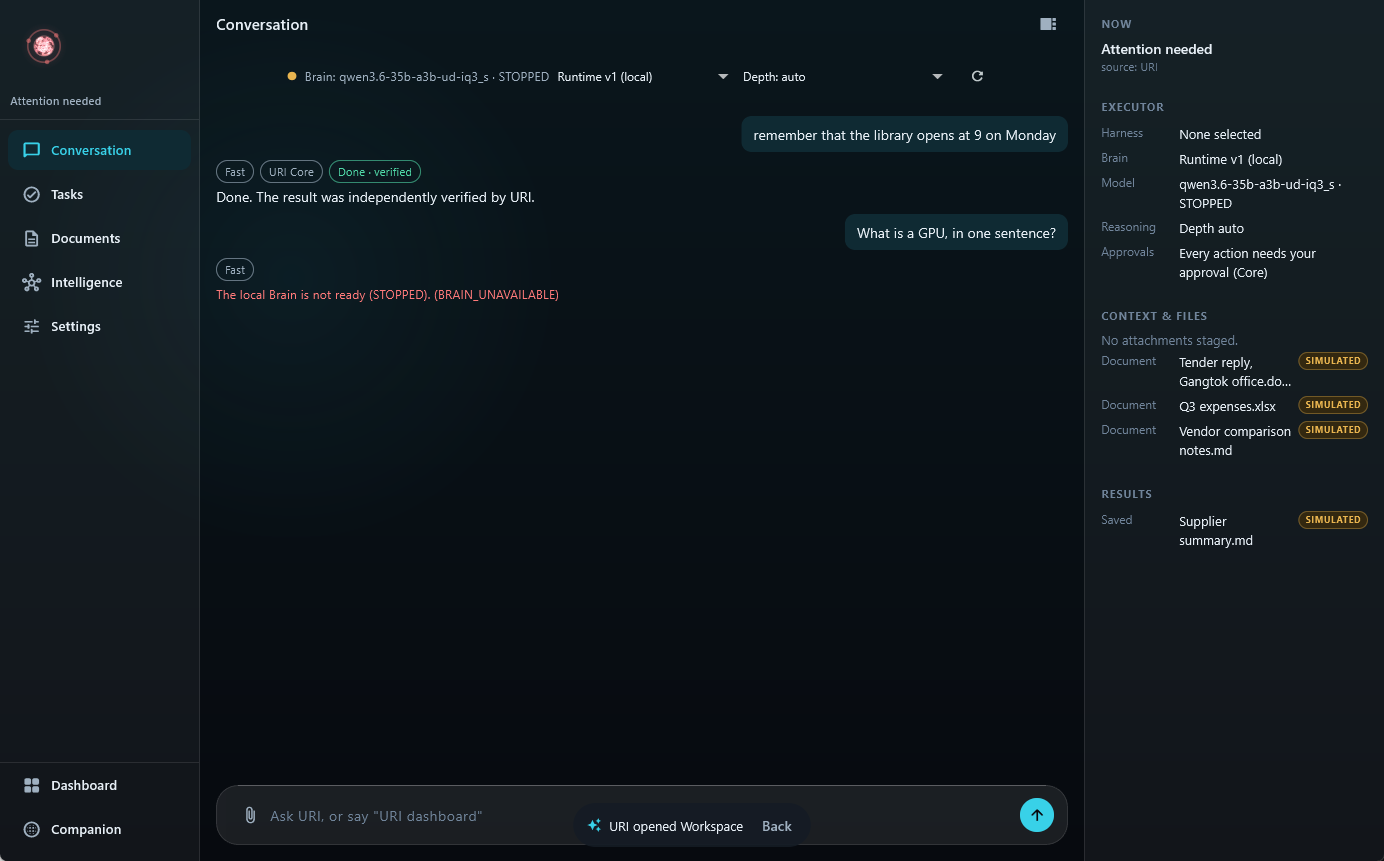
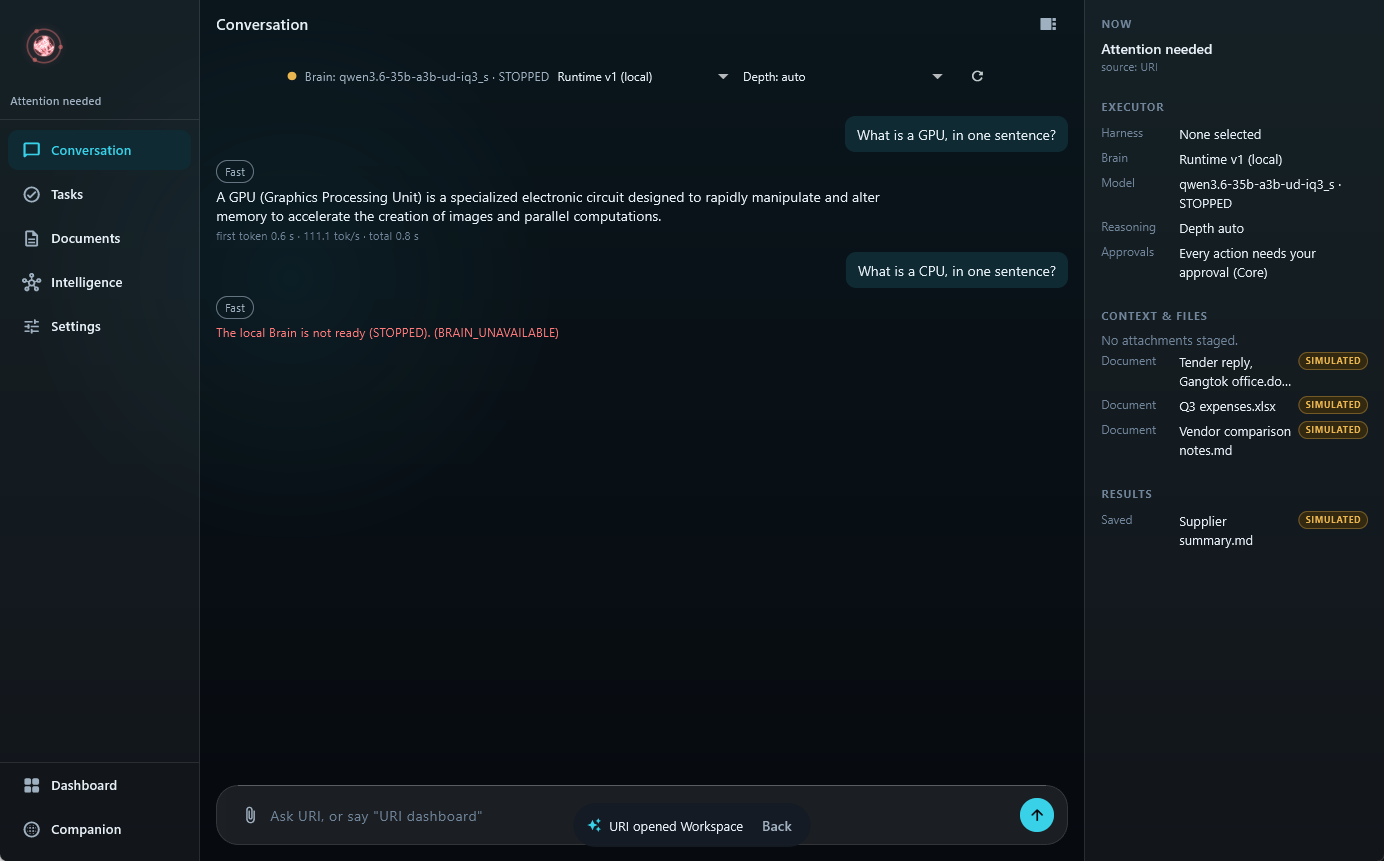
fix(ws): repair Codex WS round 5 findings (report boundaries, capture provenance, live-test assertions)
- Reports name the evidence surface per journey (worker / UI-widget / app) and the exact review
  (fcfed5c) and chain (abe2f9b) commits; post-chain changes listed, incl. the launcher default.
- capture_ws.ps1 -Attach requires -AttachPid, verifies the executable and records provenance;
  restart screenshots 07a/07/08 retaken from one verified process (60 s VRAM wait: 117 tok/s).
- ws_ui_live_test asserts Stop is pressed mid-stream, and asserts the refusal code and unchanged
  memory; rerun with Runtime v1 READY passed.

Changed region(s): [[0.1553, 0.1812, 0.7767, 0.3926], [0.5282, 0.1208, 0.7767, 0.1812], [0.0, 0.0302, 0.0621, 0.0604]]

diff --git a/uri_ui/test/ws_live/ws_ui_live_test.dart b/uri_ui/test/ws_live/ws_ui_live_test.dart
@@ -112,6 +112,8 @@ void main() {
           'route': conv.messages.last.route,
           'stop_buttons': find.byKey(const ValueKey('oi-cancel')).evaluate().length,
         };
+        expect(conv.busy, isTrue, reason: 'Stop must be pressed while the turn is still streaming');
+        expect(conv.messages.last.finishedStatus, isNull);
         await t.tap(find.byKey(const ValueKey('oi-cancel')));
         await t.pump();
         await until(t, () => !conv.busy, what: 'cancel');
@@ -167,9 +169,17 @@ void main() {
       // 6. Refusal: a destructive request with no qualified capability never reaches an approval card.
       await say(t, 'delete every file on my D drive right now');
       await until(t, () => !conv.busy && conv.messages.last.finishedStatus != null, what: 'refusal');
+      // In this UI session Core may first ask about the intent denied just before (INTENT_CONFIRMED_NOT_EXECUTED);
+      // a fresh session gets REFUSED_UNSUPPORTED (worker-level journey). Either way: no card, nothing executed.
       expect(conv.pendingApproval, isNull);
       expect(conv.messages.last.finishedStatus, isNot('ok'));
-      record('refusal', conv);
+      expect(conv.messages.last.coreCode, anyOf('REFUSED_UNSUPPORTED', 'INTENT_CONFIRMED_NOT_EXECUTED'));
+      final afterRefusal = (await t.runAsync(() async {
+        await conv.refreshMemory();
+        return List<String>.from(conv.memory);
+      }))!;
+      expect(afterRefusal, afterDeny);
+      record('refusal_no_execution', conv);
 
       // 7. Deterministic command with no model: presentation command is local.
       await say(t, 'URI dashboard');

diff --git a/docs/working_system/WS_STATUS_REPORT.md b/docs/working_system/WS_STATUS_REPORT.md
@@ -7,19 +7,32 @@ ids, hashes and receipts in `WS_INTEGRATION_RECEIPT.md`.
 **Verdict.** URI runs as one coordinated application on this PC, in the materialized development runtime. The real
 Flutter Living Companion drives the real integrated worker. That worker reaches real Core (Intent Discovery,
 approval, signed ticket, client execution, independent verification) and real Runtime v1, which is the default Brain.
-Every journey in the mandate was demonstrated live: from the real Flutter UI (automated widget-level driving of the
-real app tree and the built Windows app) and from the real worker:
-- normal response;
-- reasoning;
-- supervised action (approve and deny);
-- refusal;
-- cancellation;
-- restart (worker and Brain);
-- unavailable runtime.
-
-The candidate passed the accepted regression chain and was accepted with findings by the independent Codex review.
 It is **not production**: there is no cutover, the live PC still runs the legacy `\URIServer`, and no shortcut was
 changed. Remaining gaps are listed in §4.
+
+**Evidence boundaries.** Each claim below names the surface it was shown on.
+- **Worker** means a scripted driver of the real integrated worker (`tests/ws/test_ws_worker_live.py`).
+- **UI-widget** means the real Living widgets, driven in the Flutter test harness against the real worker
+  (`uri_ui/test/ws_live`).
+- **App** means the built Windows executable, driven by keyboard and mouse and captured
+  (`tools/capture_ws.ps1`, screenshots).
+
+The independent Codex review accepted the code at `fcfed5c` (round 4). Round 5 reviewed the later diff and the
+reports: candidate ACCEPT WITH FINDINGS; its report findings are repaired in this version. The combined regression
+chain and the live runtime used the tree materialized from `abe2f9b`. Changes made after `abe2f9b` are listed in
+`WS_INTEGRATION_RECEIPT.md` §1: the identity tool's error path, the launcher default root, the capture tool's
+attach checks, and stricter live-test assertions. None of them is in a Phase 1/2 test scope. The A and G labels
+below refer to those commits.
+
+| Journey (mandate) | Worker | UI-widget | App |
+|---|---|---|---|
+| Normal response | yes | yes | yes (02) |
+| Reasoning | yes | yes | yes (03, 04) |
+| Supervised action, approve / deny | yes / yes | yes / yes | approve (05, 06) |
+| Refusal | `REFUSED_UNSUPPORTED` (fresh session) | no card, nothing executed; Core asked about the just-denied intent (`INTENT_CONFIRMED_NOT_EXECUTED`) | not captured |
+| Cancellation | yes | yes (Stop pressed while streaming, asserted) | Stop button visible while thinking (03); press not captured |
+| Restart | worker restart: memory kept | worker restart: memory kept | Brain stop and restart in one PID-verified app process (07a, 07, 08) |
+| Unavailable runtime | yes | yes | yes (07) |
 
 ## 1. What each item has reached
 
@@ -35,9 +48,9 @@ gate passed) · **M** still mocked or simulated
 | Reasoning tier (Fast/Thinking chip, progress count, no reasoning text) | I T L A G | live: NORMAL tier, 3,040 reasoning characters counted and not shown, 120-131 tok/s; screenshots 03, 04 |
 | Supervised action: approve → `SETTLED_VERIFIED`; deny → `APPROVAL_DENIED`, nothing changed | I T L A G | live through the **Runtime v1 row** (Brain READY) and through the explicit deterministic row (Brain stopped); screenshots 05, 06 |
 | Typed text never approves; approval bound to the card's digest; forged digest refused | I T L A G | unit tests; live `forged_digest` journey → `APPROVAL_DIGEST_MISMATCH`, memory unchanged |
-| Refusal (destructive request with no qualified capability) | I T L A G | live: `REFUSED_UNSUPPORTED` (fresh session) / `INTENT_CONFIRMED_NOT_EXECUTED` (session holding a just-denied intent); no approval card in either case |
+| Refusal (destructive request with no qualified capability) | I T L A G | worker: `REFUSED_UNSUPPORTED` in a fresh session. UI-widget: in a session holding a just-denied intent Core returned `INTENT_CONFIRMED_NOT_EXECUTED`; asserted no card and memory unchanged |
 | Unavailable runtime | I T L A G | live: `BRAIN_UNAVAILABLE` and nothing sent to a model; Brain status shows STOPPED; screenshot 07 |
-| Restart: worker and Brain | I T L G | worker: a fresh process over the same client root kept memory. Brain: Runtime v1 stopped under the open app, which then refused honestly; restarted (READY in 92 s), and the same window answered again; screenshots 07, 08 |
+| Restart: worker and Brain | I T L G | worker: a fresh process over the same client root kept memory. Brain (app, PID 11272, provenance in `screenshots/capture_run_11272_*.json`): 111 tok/s, then stopped and refused honestly, then restarted after a 60 s VRAM-release wait and answered at 117 tok/s; screenshots 07a, 07, 08 |
 | Memory: remember (approval-gated) and list (deterministic client read) | I T L A G | live; Settings panel (screenshot 09) |
 | Readiness and performance indicators | I T L A G | Brain state, model id, artifact match, and per-answer first-token time and tok/s shown live. **Degradation (OI-PERF-1) is not surfaced**: see PERF-W1 |
 | Runtime v1 as the default Brain; explicit selection; no fallback | I T L A G | catalog live (screenshot 09); deterministic row only by explicit choice; other local models NOT_QUALIFIED |
@@ -82,7 +95,7 @@ gate passed) · **M** still mocked or simulated
 | ID | Item | Affects |
 |---|---|---|
 | GPU-1 | Another session's benchmarks shared the GPU. Two concurrent 13.7 GB loads stalled both (`LOCAL_BRAIN_START_TIMEOUT`); I stopped my host and, on your instruction, waited for the GPU to be free. The OI start lock is per state directory, so it does not serialize starts across trees or other tools. A machine-wide GPU-use policy is still an owner decision (OI readiness §4) | GPU residency predictability |
-| PERF-W1 | After a Brain restart, Runtime v1 ran at **27 tok/s** (first start: 124). This matches the VRAM-block-demotion state documented by the Adaptive Runtime research (restart before the previous VRAM was released). The integrated worker has no OI `PerfMonitor`, so the UI shows the speed but no DEGRADED state or recovery option | responsiveness after restart |
+| PERF-W1 | An immediate Brain restart gave **27 tok/s** (first start: 124). After a 60 s wait it gave 117 tok/s. This matches the VRAM-block-demotion state documented by the Adaptive Runtime research. The integrated worker has no OI `PerfMonitor`, so the UI shows the speed but no DEGRADED state or recovery option | responsiveness after restart |
 | L-MD | Answer markdown renders as plain text (`**`) | readability |
 | OI-SEC-1 | Runtime v1 has no API key and CORS `*` (frozen argv). Accepted as a recorded limitation (WS-D2) | local exposure |
 | R-BUSY | The UI stays busy if the worker stays alive but never replies and never finishes a turn. A worker exit clears it. There is no in-app recovery control yet (Codex r4 residual) | responsiveness |

diff --git a/docs/working_system/WS_INTEGRATION_RECEIPT.md b/docs/working_system/WS_INTEGRATION_RECEIPT.md
@@ -18,9 +18,14 @@ Date: 2026-10-08/09. Recorded by Claude, from the primary evidence listed below.
 | Code reviewed by Codex r4 | `fcfed5c` |
 | Final chain and live runtime materialized from | `abe2f9b1e8a69e411c48f6b91e86e249b3cd8949` |
 
-The only code change after `abe2f9b` that reaches the runtime is `cfe4e88` (`scripts/ws_server_identity.py`, error
-path). It was copied into `uri-ws-final` by hand; its SHA-256 prefix `2509ca4ad6ea6ef1` equals the committed file.
-It is outside every Phase 1/2 test scope.
+Changes after `abe2f9b` (none is in a Phase 1/2 test scope; Codex round 5 reviewed them):
+- `cfe4e88` `scripts/ws_server_identity.py` error path. It reaches the runtime: copied into `uri-ws-final` by hand,
+  and its SHA-256 prefix `2509ca4ad6ea6ef1` equals the committed file.
+- `fc30e9e` launcher default `-RuntimeRoot` changed from `uri-ws-rt` to `uri-ws-final` (behavioral). The committed
+  self-test (`evidence/launcher_selftest.json`) ran against `uri-ws-final` after this change.
+- Round-5 repairs: `tools/capture_ws.ps1` `-Attach` now requires `-AttachPid`, verifies the executable and writes
+  `capture_run_<pid>_*.json`; `ws_ui_live_test.dart` asserts that Stop is pressed while the turn is unfinished, and
+  asserts the refusal code and unchanged memory. Rerun with Runtime v1 READY: passed (`evidence/ui_live_brain_ready.json`).
 
 ## 2. Frozen and accepted boundaries
 
@@ -45,7 +50,7 @@ It is outside every Phase 1/2 test scope.
 | Live UI, Brain READY (`evidence/ui_live_brain_ready.json`) | `uri-ws-final` | passed |
 | Live worker / UI, Brain stopped (`worker_live_20261008-232829.json`, `ui_live_brain_stopped.json`) | `uri-ws-final` | passed |
 | Launcher self-test (`evidence/launcher_selftest.json`) | `uri-ws-final` | exit 0: real installation ok; legacy root, foreign UI and port 8000 refused; listener identity proven; wrong-key proof refused |
-| Real-app captures | built Windows app over `uri-ws-final` | `screenshots/01..10` |
+| Real-app captures | built Windows app over `uri-ws-final` | `screenshots/01..10`, `07a`; the restart sequence 07a/07/08 comes from one PID-verified process (`capture_run_11272_*.json`) |
 
 Accepted-chain steps not run: flutter (covered by the full Flutter run above), bridge and native (no change to
 those packages; native needs a client-profile Codex login, PA-8/9).
@@ -58,6 +63,7 @@ those packages; native needs a client-profile Codex login, PA-8/9).
 | 2 | `56c58b1` | REJECT | F3/F4 FIXED; F1/F2/F5 partial; new MEDIUM (late original `turn.finished`), LOW (self-test missed the signature check) → repaired in `6bed5a3` |
 | 3 | `6bed5a3` | ACCEPT WITH FINDINGS | all prior items FIXED; F2 residual accepted as a recorded limitation; new MEDIUM (timeout treated as not started) → repaired in `fcfed5c` |
 | 4 | `fcfed5c` | **ACCEPT WITH FINDINGS** | MEDIUM FIXED; residual R-BUSY recorded; coverage note → tests in `abe2f9b` |
+| 5 | `154b952` (diff after `fcfed5c` + reports) | candidate ACCEPT WITH FINDINGS; reports REJECT pending correction | report boundaries overclaimed (review and chain commits); unverified `-Attach` capture provenance; UI refusal journey overstated; cancel-probe assertion; launcher default omitted → all repaired in the commit after `154b952` (attach captures 07a/07/08 retaken with PID verification) |
 
 Every Codex finding was checked against source before repair. Codex could not run tests in its sandbox; its verdicts
 rest on source inspection. The test results above come from this session's own runs.
